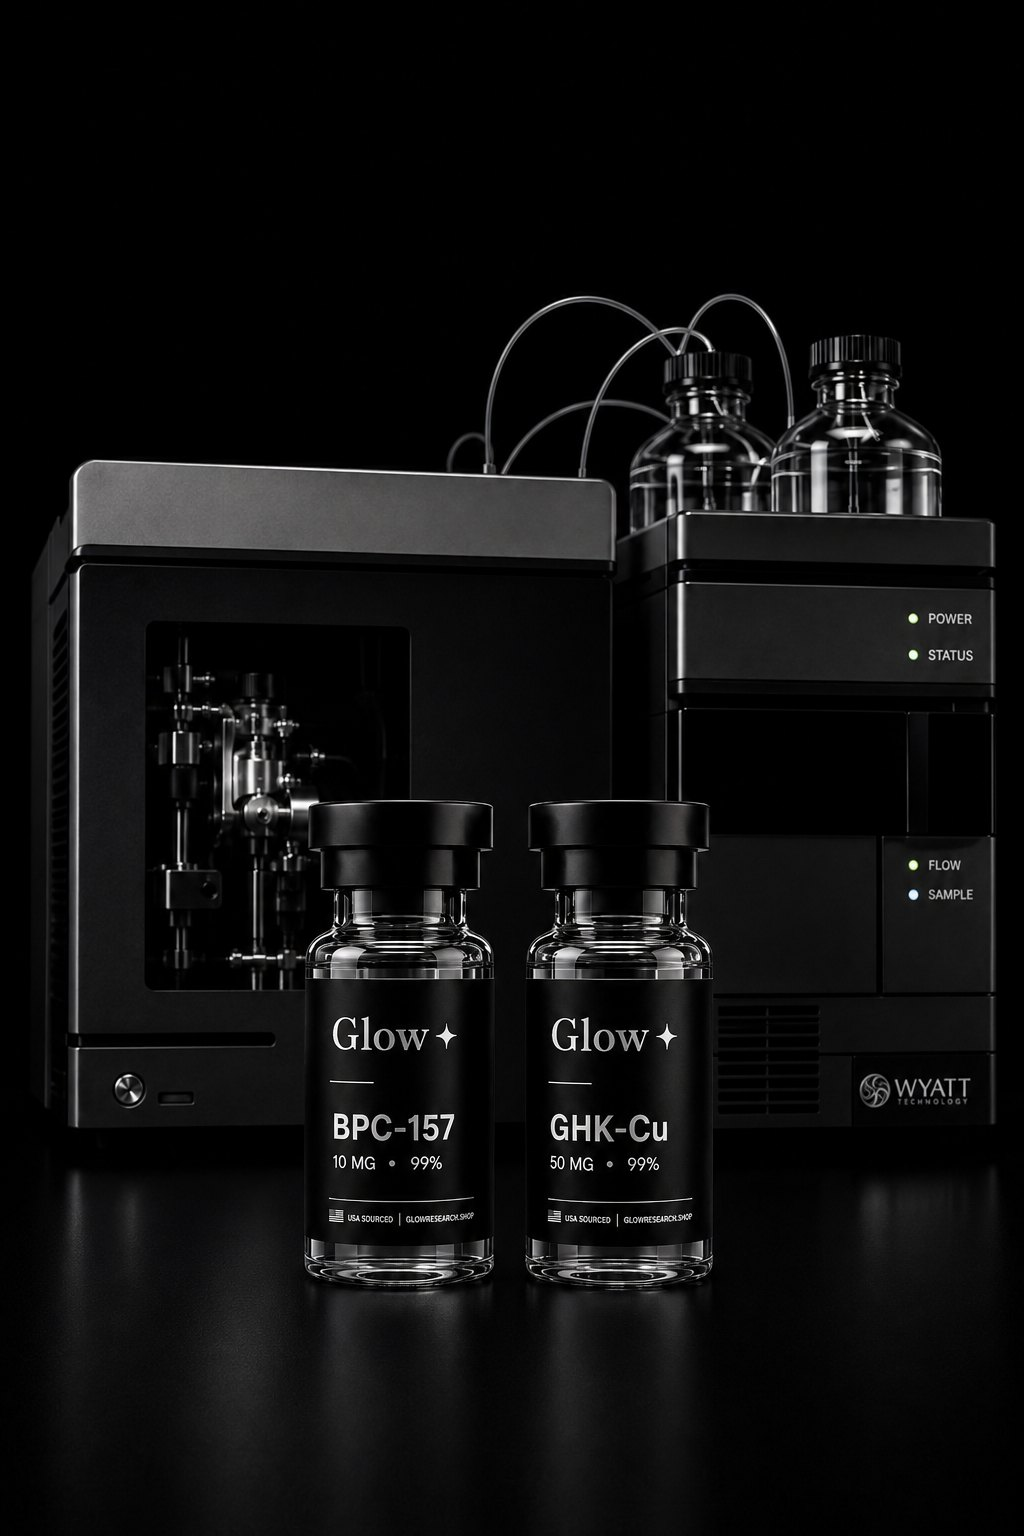
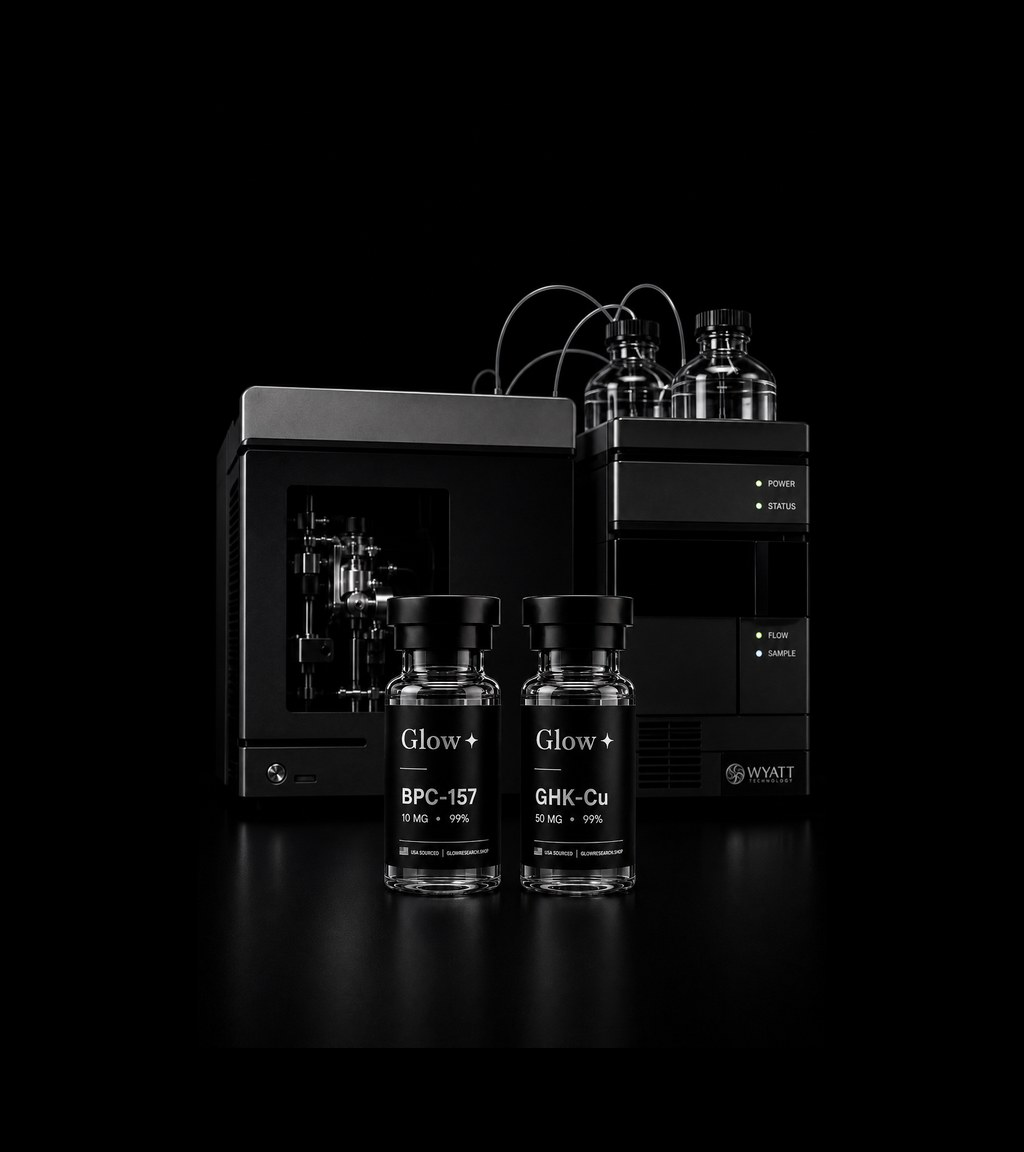
Pull the hero photo back: less zoomed, shorter overall
Two problems in one image. The photo read tighter than the Onyx
reference (subject filling the frame edge to edge), and the container's
2:3 aspect ratio made the hero tall enough that on a normal laptop
viewport the vial labels sat below the fold on load.

Fixed by compositing rather than re-cropping: the source photo's
background is genuinely solid black (checked pixel values at all four
corners), so scaling the whole photo down and centering it on a new,
shorter black canvas adds visible margin around the equipment with no
seam and crops nothing. New canvas is 1024x1152 versus the original
1024x1536, and the subject now occupies about two-thirds of the frame
instead of nearly all of it. CSS aspect-ratio and the img width/height
attributes updated to match.

Claude-Session: https://claude.ai/code/session_017H7DBhBPpgGBMM6kPJBVM7

diff --git a/how-we-test.html b/how-we-test.html
@@ -92,7 +92,7 @@
   }
   .hw-hero-art{
     border:1px solid var(--border); overflow:hidden;
-    aspect-ratio: 1024 / 1536; background:#000;
+    aspect-ratio: 1024 / 1152; background:#000;
   }
   .hw-hero-art img{
     width:100%; height:100%; object-fit:cover; display:block;
@@ -330,7 +330,7 @@
       </div>
     </div>
     <div class="hw-hero-art">
-      <img src="assets/lab-instrument-vials.jpg" alt="Laboratory analytical instruments used for third-party testing, stock photography" width="1024" height="1536" loading="eager" />
+      <img src="assets/lab-instrument-vials.jpg" alt="Laboratory analytical instruments used for third-party testing, stock photography" width="1024" height="1152" loading="eager" />
     </div>
   </div>
 </section>
